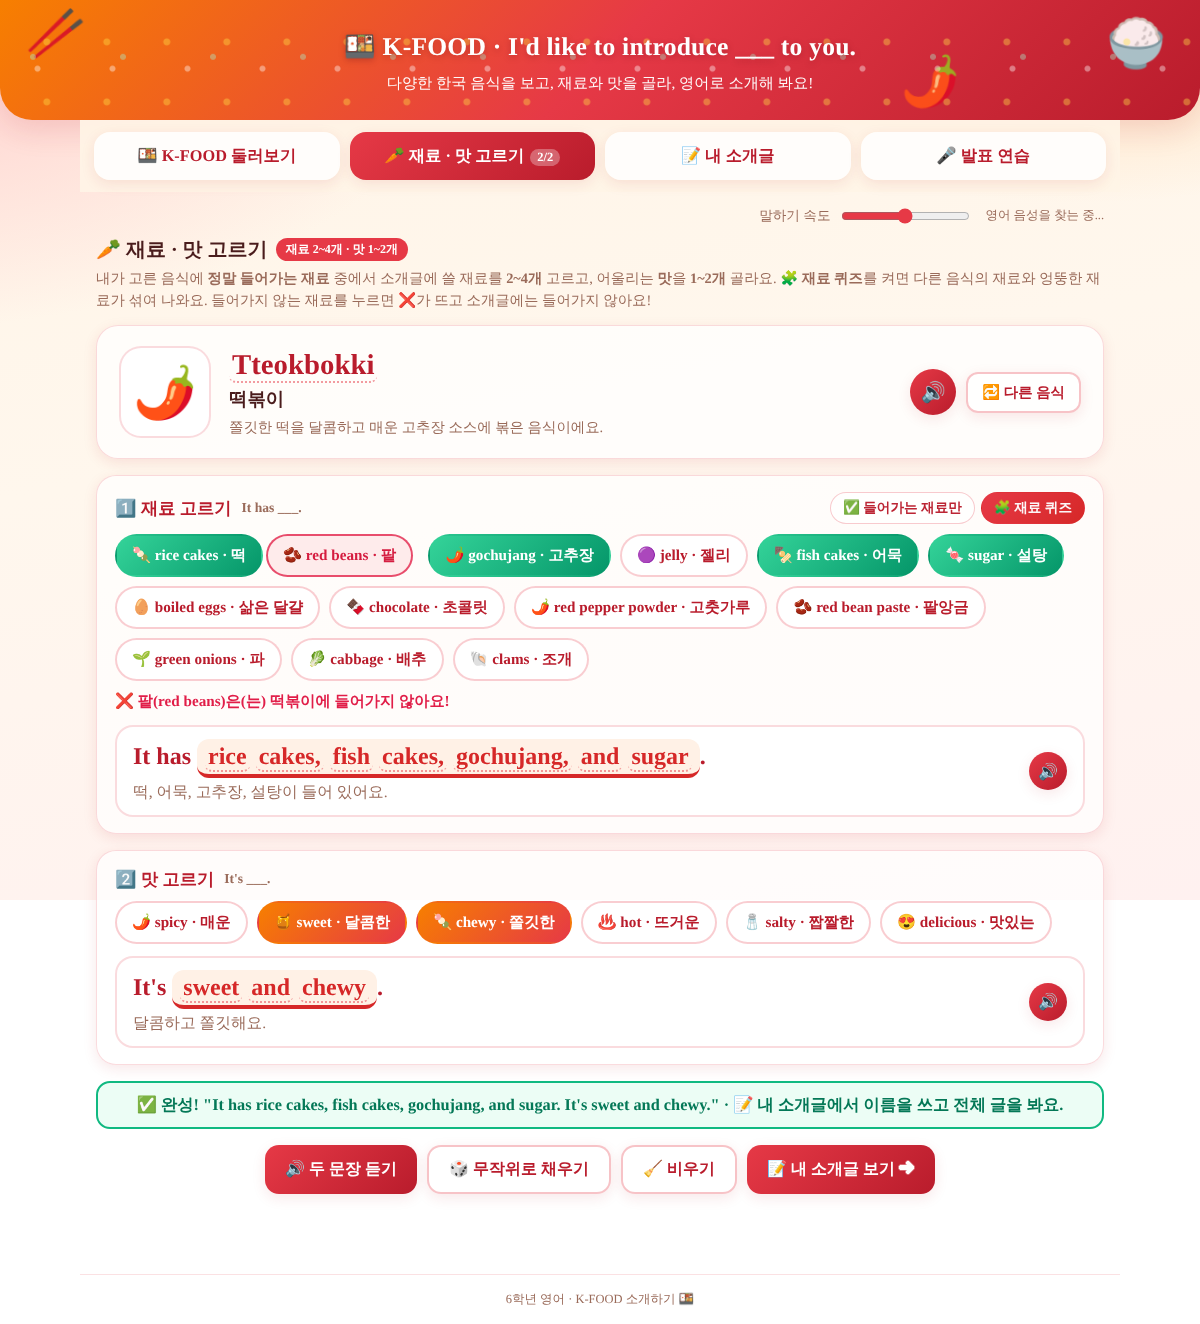
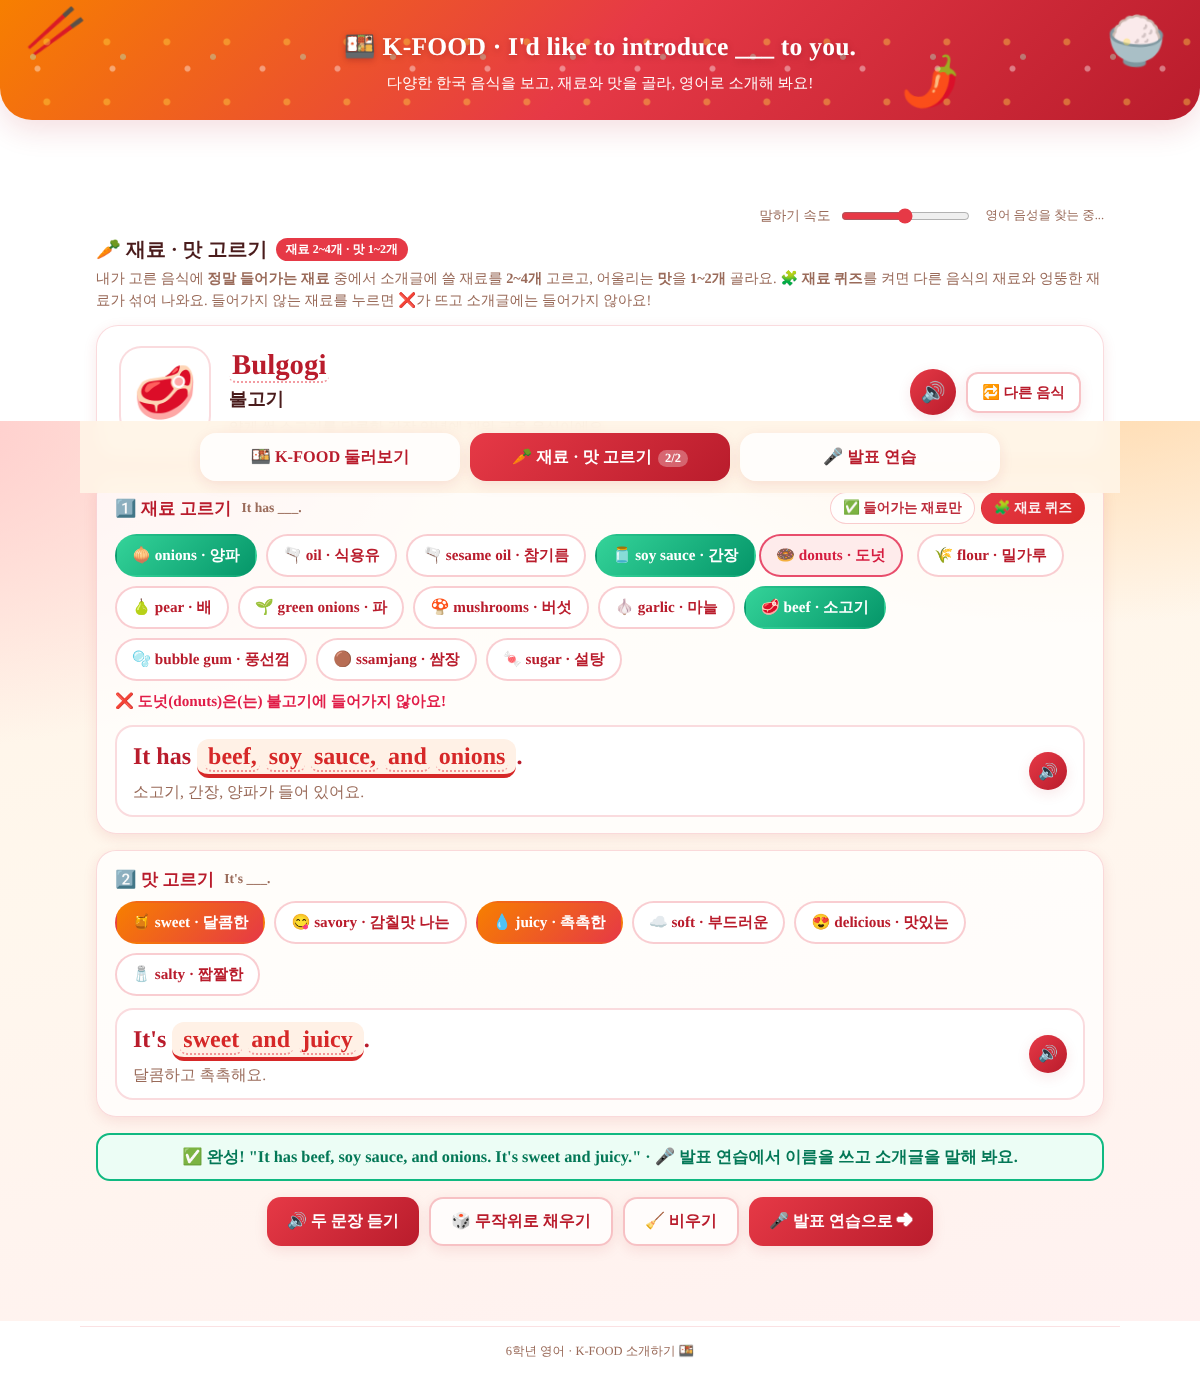
내 소개글 탭 제거: 이름 입력을 발표 연습 탭으로 옮기고 소개글 표·복사·인쇄 삭제
Claude-Session: https://claude.ai/code/session_012sHSRFgHgwfmK8ihozfbax

Changed region(s): [[0.0, 0.0, 1.0, 0.929], [0.4317, 0.96, 0.5858, 0.9909]]

diff --git a/app.js b/app.js
@@ -2,8 +2,7 @@
  * 6학년 · K-FOOD 소개하기 웹 앱
  * - 🍱 둘러보기 : 음식 카드(영어 + 한글 + 설명) · 종류별 보기 · 음식 고르기
  * - 🥕 재료·맛  : 정말 들어가는 재료 2~4개 + 어울리는 맛 1~2개 (재료 퀴즈 모드)
- * - 📝 소개글   : 이름 입력 → 6줄 소개글(영어 + 한글) · 전체 듣기 · 복사 · 인쇄 · 워크시트 표
- * - 🎤 발표 연습 : 줄마다 말하기 채점 + 전체 발표(차례로 마이크) + 짝 활동 카드
+ * - 🎤 발표 연습 : 이름 입력 → 6줄 소개글(영어 + 한글), 줄마다 말하기 채점 + 전체 발표(차례로 마이크) + 짝 활동 카드
  * - 음성 출력: Web Speech API (SpeechSynthesis) / 채점: SpeechRecognition
  * ========================================================= */
 
@@ -418,13 +417,12 @@ function updateBuildPreview(autoSpeak) {
   if (!f) status.textContent = "🍱 먼저 소개할 음식을 골라요.";
   else if (my.ingredients.length < ING_MIN) status.textContent = `1⃣ ${koShort(f.ko)}에 들어가는 재료를 ${ING_MIN}~${ING_MAX}개 골라요 👆 (지금 ${my.ingredients.length}개)`;
   else if (!tasteOk()) status.textContent = `2⃣ ${koShort(f.ko)}의 맛을 1~${TASTE_MAX}개 골라요 👆`;
-  else status.textContent = `✅ 완성! "${ing.en} ${ts.en}" · 📝 내 소개글에서 이름을 쓰고 전체 글을 봐요.`;
+  else status.textContent = `✅ 완성! "${ing.en} ${ts.en}" · 🎤 발표 연습에서 이름을 쓰고 소개글을 말해 봐요.`;
 
   document.getElementById("build-listen").disabled = !(ing || ts);
   document.getElementById("build-next").disabled = !done;
   document.getElementById("build-next").classList.toggle("primary", done);
   updateBuildBadge();
-  renderScript();
 
   if (autoSpeak) {
     const en = [ing && ing.en, ts && ts.en].filter(Boolean).join(" ");
@@ -458,112 +456,16 @@ document.getElementById("build-clear").addEventListener("click", () => {
   my.ingredients = []; my.tastes = []; lastBuildSpoken = "";
   cancelSpeech(); persist(); renderBuilder();
 });
-document.getElementById("build-next").addEventListener("click", () => goTab("intro"));
+document.getElementById("build-next").addEventListener("click", () => goTab("practice"));
 
-/* ===========================================================
- * 📝 내 소개글
- * =========================================================== */
+/* ---------- 🙋 내 이름 (발표 연습 탭) ---------- */
 const nameInput = document.getElementById("my-name");
 nameInput.value = my.name;
 nameInput.addEventListener("input", () => {
   my.name = nameInput.value.replace(/[^A-Za-z .'-]/g, "").slice(0, 24);
   if (nameInput.value !== my.name) nameInput.value = my.name;
-  persist(); renderScript();
+  persist(); renderPractice();
 });
-
-function renderScript() {
-  const box = document.getElementById("script-box");
-  if (!box) return;
-  box.innerHTML = "";
-  const f = findFood(my.food);
-  if (!f) {
-    box.innerHTML = `<div class="food-head-empty">아직 음식을 고르지 않았어요. <b>🍱 K-FOOD 둘러보기</b>에서 음식을 고르고, <b>🥕 재료 · 맛 고르기</b>를 해요.</div>`;
-    renderSheetSummary();
-    return;
-  }
-  const title = document.createElement("div"); title.className = "script-title";
-  title.innerHTML = `<span class="script-emoji">${f.emoji}</span> <b>${f.en}</b> <span class="food-ko">${f.ko}</span>`;
-  box.appendChild(title);
-  introLines().forEach((l, i) => {
-    const row = document.createElement("div"); row.className = "script-line";
-    const num = document.createElement("span"); num.className = "script-num"; num.textContent = i + 1;
-    const txt = document.createElement("div"); txt.className = "script-text";
-    const en = document.createElement("div"); en.className = "en"; en.appendChild(buildWords(l.en));
-    const ko = document.createElement("div"); ko.className = "ko"; ko.textContent = l.ko;
-    txt.append(en, ko);
-    const sp = document.createElement("button"); sp.className = "speak-btn small"; sp.textContent = "🔊"; sp.setAttribute("aria-label", "이 줄 듣기");
-    sp.addEventListener("click", () => speak(l.en, null, () => row.classList.add("speaking"), () => row.classList.remove("speaking")));
-    row.append(num, txt, sp);
-    box.appendChild(row);
-  });
-  const missing = [];
-  if (!my.name.trim()) missing.push("🙋 이름");
-  if (!ingOk()) missing.push("🥕 재료 2~4개");
-  if (!tasteOk()) missing.push("😋 맛 1~2개");
-  const note = document.createElement("div"); note.className = "dlg-status" + (missing.length ? "" : " ok");
-  note.textContent = missing.length ? `아직 ${missing.join(" · ")}이 비어 있어요.` : "✅ 소개글 완성! 워크시트에 옮겨 적고 🎤 발표 연습으로 가요.";
-  box.appendChild(note);
-  renderSheetSummary();
-}
-
-document.getElementById("script-listen").addEventListener("click", () => {
-  if (!findFood(my.food)) return;
-  const rows = document.querySelectorAll("#script-box .script-line");
-  const lines = introLines();
-  let i = 0;
-  const step = () => {
-    rows.forEach(r => r.classList.remove("speaking"));
-    if (i >= lines.length) return;
-    const row = rows[i], en = lines[i].en; i++;
-    row && row.classList.add("speaking");
-    speakThen(en, () => setTimeout(step, 250));
-  };
-  cancelSpeech(); step();
-});
-document.getElementById("script-copy").addEventListener("click", async e => {
-  if (!findFood(my.food)) return;
-  const text = introText();
-  const btn = e.currentTarget;
-  try {
-    await navigator.clipboard.writeText(text);
-    btn.textContent = "✅ 복사했어요!";
-  } catch (err) {
-    const ta = document.createElement("textarea"); ta.value = text; document.body.appendChild(ta); ta.select();
-    try { document.execCommand("copy"); btn.textContent = "✅ 복사했어요!"; } catch (e2) { btn.textContent = "복사 실패"; }
-    ta.remove();
-  }
-  setTimeout(() => { btn.textContent = "📋 글 복사하기"; }, 1600);
-});
-document.getElementById("script-print").addEventListener("click", () => { if (findFood(my.food)) window.print(); });
-
-/* ---------- 📄 워크시트에 적기 ---------- */
-function sheetRow(label, en, ko) {
-  const row = document.createElement("div");
-  row.className = "sheet-row" + (en ? "" : " empty");
-  const lab = document.createElement("div"); lab.className = "sheet-label"; lab.textContent = label;
-  const val = document.createElement("div"); val.className = "sheet-val";
-  if (en) {
-    const e = document.createElement("div"); e.className = "en"; e.appendChild(buildWords(en));
-    const k = document.createElement("div"); k.className = "ko"; k.textContent = ko;
-    val.append(e, k);
-  } else val.textContent = "아직 고르지 않았어요";
-  const btn = document.createElement("button");
-  btn.className = "speak-btn small"; btn.textContent = "🔊"; btn.disabled = !en;
-  btn.addEventListener("click", () => en && speak(en));
-  row.append(lab, val, btn);
-  return row;
-}
-function renderSheetSummary() {
-  const box = document.getElementById("sheet-summary");
-  if (!box) return;
-  box.innerHTML = "";
-  const f = findFood(my.food);
-  const ing = ingSentence(), ts = tasteSentence();
-  box.appendChild(sheetRow("내가 고른 음식", f && `${f.en} (${f.ko})`, f && f.descKo));
-  box.appendChild(sheetRow("재료 (It has ~.)", ing && ing.en, ing && ing.ko));
-  box.appendChild(sheetRow("맛 (It's ~.)", ts && ts.en, ts && ts.ko));
-  box.appendChild(sheetRow("소개글 전체", f && introText().replace(/\n/g, " "), f && introLines().map(l => l.ko).join(" ")));
-}
 
 /* ===========================================================
  * 🎤 발표 연습 (음성 인식)
@@ -806,7 +708,6 @@ function goTab(name) {
   cancelSpeech(); hidePopup();
   if (name === "explore") renderFoods();
   if (name === "build") { lastBuildSpoken = ""; renderBuilder(); }
-  if (name === "intro") renderScript();
   if (name === "practice") renderPractice();
   window.scrollTo({ top: 0, behavior: "smooth" });
 }
@@ -815,4 +716,3 @@ document.getElementById("rate").addEventListener("input", e => { speakRate = par
 
 renderFoods();
 renderBuilder();
-renderScript();

diff --git a/index.html b/index.html
@@ -20,7 +20,6 @@
   <nav class="tabs">
     <button class="tab-btn active" data-tab="explore">🍱 K-FOOD 둘러보기</button>
     <button class="tab-btn" data-tab="build">🥕 재료 · 맛 고르기 <span id="build-count" class="tab-count">0/2</span></button>
-    <button class="tab-btn" data-tab="intro">📝 내 소개글</button>
     <button class="tab-btn" data-tab="practice">🎤 발표 연습</button>
   </nav>
 
@@ -83,31 +82,8 @@
           <button id="build-listen" class="btn primary" disabled>🔊 두 문장 듣기</button>
           <button id="build-random" class="btn ghost">🎲 무작위로 채우기</button>
           <button id="build-clear" class="btn ghost">🧹 비우기</button>
-          <button id="build-next" class="btn" disabled>📝 내 소개글 보기 ➜</button>
+          <button id="build-next" class="btn" disabled>🎤 발표 연습으로 ➜</button>
         </div>
-      </div>
-    </section>
-
-    <!-- ===== 📝 내 소개글 ===== -->
-    <section id="tab-intro" class="tab-panel">
-      <div class="section-block">
-        <h2>📝 내 소개글 <span class="count">6줄</span></h2>
-        <p class="hint">이름을 영어로 쓰면 소개글이 완성돼요. 🔊를 눌러 한 줄씩 듣거나 <b>전체 듣기</b>로 들어요. 다 되면 <b>워크시트에 옮겨 적고</b> <b>🎤 발표 연습</b>으로 가요.</p>
-        <div class="name-row">
-          <label for="my-name">🙋 내 이름 (영어로)</label>
-          <input id="my-name" type="text" maxlength="24" placeholder="예: Minsu, Seoyeon" autocomplete="off" />
-        </div>
-        <div class="fill-box script-box" id="script-box"></div>
-        <div class="fill-actions">
-          <button id="script-listen" class="btn primary">🔊 전체 듣기</button>
-          <button id="script-copy" class="btn ghost">📋 글 복사하기</button>
-          <button id="script-print" class="btn ghost">🖨 인쇄하기</button>
-        </div>
-      </div>
-      <div class="section-block">
-        <h2>📄 워크시트에 적기</h2>
-        <p class="hint">워크시트 빈칸과 같은 순서예요. 영어 문장을 그대로 옮겨 적어요.</p>
-        <div id="sheet-summary" class="sheet-table"></div>
       </div>
     </section>
 
@@ -115,7 +91,11 @@
     <section id="tab-practice" class="tab-panel">
       <div class="section-block">
         <h2>🎤 발표 연습 <span class="count">한 줄씩 · 전체</span></h2>
-        <p class="hint">줄마다 <b>🎙 말하기</b>로 정확도를 재요. <b>🎭 전체 발표하기</b>를 누르면 첫 줄부터 차례로 마이크가 켜지고, 끝나면 발표 점수가 나와요. 짝에게 소개할 때는 <b>👫 짝에게 소개하기</b> 카드를 보여 주며 말해요. (Chrome 권장)</p>
+        <p class="hint">이름을 영어로 쓰면 소개글 6줄이 완성돼요. 줄마다 <b>🎙 말하기</b>로 정확도를 재요. <b>🎭 전체 발표하기</b>를 누르면 첫 줄부터 차례로 마이크가 켜지고, 끝나면 발표 점수가 나와요. 짝에게 소개할 때는 <b>👫 짝에게 소개하기</b> 카드를 보여 주며 말해요. (Chrome 권장)</p>
+        <div class="name-row">
+          <label for="my-name">🙋 내 이름 (영어로)</label>
+          <input id="my-name" type="text" maxlength="24" placeholder="예: Minsu, Seoyeon" autocomplete="off" />
+        </div>
         <p id="practice-empty" class="practice-empty">
           아직 소개글이 없어요! <b>🍱 K-FOOD 둘러보기</b>에서 음식을 고르고 <b>🥕 재료 · 맛 고르기</b>를 먼저 해요.
         </p>

diff --git a/style.css b/style.css
@@ -295,7 +295,7 @@ main { max-width: 1040px; margin: 0 auto; padding: 0 16px 50px; }
 .food-head-desc { font-size: 0.9rem; color: var(--muted); margin-top: 6px; line-height: 1.5; }
 .food-head-tools { display: flex; align-items: center; gap: 10px; }
 
-/* ===== 📝 내 소개글 ===== */
+/* ===== 🙋 내 이름 ===== */
 .name-row { display: flex; align-items: center; gap: 12px; flex-wrap: wrap; margin: 0 0 14px; }
 .name-row label { font-weight: 800; color: var(--primary-dark); }
 .name-row input {
@@ -304,37 +304,6 @@ main { max-width: 1040px; margin: 0 auto; padding: 0 16px 50px; }
   background: #fff; outline: none;
 }
 .name-row input:focus { border-color: var(--primary); box-shadow: 0 0 0 3px var(--ring); }
-.script-box { padding: 18px 20px; }
-.script-title { display: flex; align-items: center; gap: 10px; font-size: 1.3rem; color: var(--primary-dark); margin-bottom: 10px; flex-wrap: wrap; }
-.script-title .food-ko { font-size: 1rem; color: var(--muted); }
-.script-emoji { font-size: 1.8rem; }
-.script-line {
-  display: flex; align-items: center; gap: 12px; padding: 10px 12px; border-radius: 14px;
-  border-top: 1px dashed rgba(230, 57, 70, 0.18); transition: background 0.2s;
-}
-.script-line.speaking { background: #fff1e6; }
-.script-num {
-  flex-shrink: 0; width: 30px; height: 30px; border-radius: 50%; display: inline-flex; align-items: center; justify-content: center;
-  background: var(--primary); color: #fff; font-weight: 800; font-size: 0.9rem;
-}
-.script-text { flex: 1; min-width: 0; }
-.script-text .en { font-size: 1.4rem; font-weight: 800; color: var(--text); line-height: 1.4; }
-.script-text .ko { color: var(--muted); font-size: 0.95rem; margin-top: 2px; }
-.script-box .dlg-status { margin-top: 12px; }
-@media (max-width: 560px) { .script-text .en { font-size: 1.1rem; } }
-
-/* ===== 📄 워크시트에 적기 ===== */
-.sheet-table { display: flex; flex-direction: column; gap: 8px; }
-.sheet-row {
-  display: grid; grid-template-columns: 150px 1fr 40px; align-items: center; gap: 12px;
-  background: rgba(255,255,255,0.88); border: 1.5px solid rgba(230, 57, 70, 0.18);
-  border-radius: 14px; padding: 10px 14px;
-}
-.sheet-row.empty .sheet-val { color: var(--muted); font-style: italic; }
-.sheet-label { font-weight: 800; color: var(--primary-dark); font-size: 0.95rem; }
-.sheet-val .en { font-weight: 700; font-size: 1.1rem; color: var(--text); line-height: 1.5; }
-.sheet-val .ko { font-size: 0.85rem; color: var(--muted); margin-top: 2px; }
-@media (max-width: 560px) { .sheet-row { grid-template-columns: 1fr 40px; } .sheet-label { grid-column: 1 / -1; } }
 
 /* ===== 🎤 발표 연습 ===== */
 .practice-empty {
@@ -440,18 +409,3 @@ main { max-width: 1040px; margin: 0 auto; padding: 0 16px 50px; }
 .speed-control { font-size: 0.85rem; color: var(--muted); display: flex; align-items: center; gap: 8px; }
 .speed-control input { accent-color: var(--primary); }
 .voice-status { font-size: 0.78rem; color: var(--muted); }
-
-/* ===== 🖨 인쇄: 소개글만 ===== */
-@media print {
-  body { background: #fff; color: #000; }
-  .app-header, .tabs, .toolbar, .app-footer, .hint, .fill-actions, .name-row, .speak-btn, .word-popup,
-  #tab-intro .section-block:nth-of-type(2) { display: none !important; }
-  .tab-panel { display: none !important; }
-  #tab-intro { display: block !important; }
-  .script-box { box-shadow: none; border: 1px solid #999; }
-  .script-text .en { font-size: 18pt; }
-  .script-text .ko { font-size: 10pt; color: #555; }
-  .script-num { background: #333; color: #fff; }
-  .word { border-bottom: none; }
-  .dlg-status { display: none !important; }
-}

diff --git a/README.md b/README.md
@@ -17,7 +17,7 @@ Would you like this (음식)? Bye.
 
 예) `Hello. I'm Minsu. I'd like to introduce tteokbokki to you. Tteokbokki is Korean food. It has rice cakes, fish cakes, and gochujang. It's spicy and sweet. Would you like this tteokbokki? Bye.`
 
-## 기능 (탭 4개)
+## 기능 (탭 3개)
 
 - 🍱 **K-FOOD 둘러보기** — 한국 음식 **34가지** 카드. 영어 이름 + 한글 이름 + 한 줄 설명(영어·한글), 🔊 이름·설명 듣기, 단어 클릭 시 뜻 풍선 + 발음
   - 🍚 밥: Bibimbap · Gimbap · Kimchi fried rice · Gyeran-bap
@@ -31,8 +31,7 @@ Would you like this (음식)? Bye.
   - 🧩 **재료 퀴즈**: 다른 음식의 재료 3개 + 엉뚱한 재료(초콜릿·케첩 등) 2개를 섞어 보여 줌. **들어가지 않는 재료를 누르면 ❌ 안내가 나오고 소개글에 들어가지 않음**
   - 음식마다 어울리는 **맛** 중 **1~2개**를 고름 → `It's ___.` (맛 20가지: spicy · sweet · salty · sour · savory · nutty · hot · warm · cold · refreshing · crispy · crunchy · chewy · soft · juicy · mild · rich · fresh · healthy · delicious)
   - 고를 때마다 영어 문장 + 한글 뜻이 바로 채워지고 읽어 줌 · 🎲 무작위 채우기
-- 📝 **내 소개글** — 이름(영어)을 쓰면 **6줄 소개글**이 영어 + 한글로 완성됨. 한 줄씩 듣기 · 전체 듣기 · 📋 글 복사 · 🖨 인쇄(소개글만 인쇄) · **📄 워크시트에 적기** 표
-- 🎤 **발표 연습** — 줄마다 🎙 말하기 정확도 측정, **🎭 전체 발표하기**(첫 줄부터 차례로 마이크가 켜지고 끝나면 발표 점수) · 👫 **짝에게 소개하기** 카드(친구 대답: Yes, please. / No, thanks.)
+- 🎤 **발표 연습** — 이름(영어)을 쓰면 **6줄 소개글**이 영어 + 한글로 완성됨. 줄마다 🔊 듣기와 🎙 말하기 정확도 측정, **🎭 전체 발표하기**(첫 줄부터 차례로 마이크가 켜지고 끝나면 발표 점수) · 👫 **짝에게 소개하기** 카드(친구 대답: Yes, please. / No, thanks.)
 - 말하기 **속도 조절** 슬라이더 · 로마자 음식 이름(tteokbokki 등)은 영어 음성이 비슷하게 읽도록 발음을 바꿔 읽음
 
 브라우저 내장 **Web Speech API**(음성 합성·음성 인식)를 사용합니다. (Chrome 권장)
@@ -49,7 +48,7 @@ Would you like this (음식)? Bye.
 | `index.html` | 화면 구조(탭·섹션) |
 | `style.css`  | 디자인·K-FOOD 테마 |
 | `data.js`    | 음식 34가지(이름·설명·재료·맛), 재료·맛 사전, 단어 뜻 사전 |
-| `app.js`     | 둘러보기·재료/맛 고르기·소개글·발표 연습·음성 기능 |
+| `app.js`     | 둘러보기·재료/맛 고르기·발표 연습·음성 기능 |
 | `worksheet_친구초대하기.hwpx` | (이전 단원 '친구 초대하기' 워크시트 · 이 앱과는 관계없음) |
 
 ## 음식·재료 추가하기
